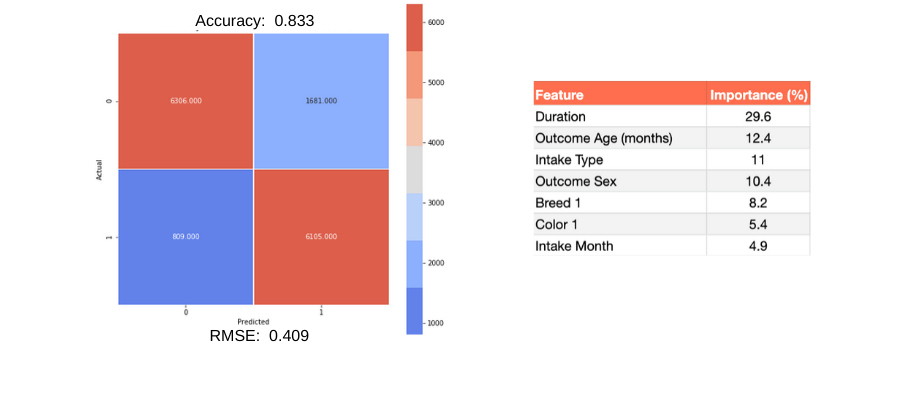
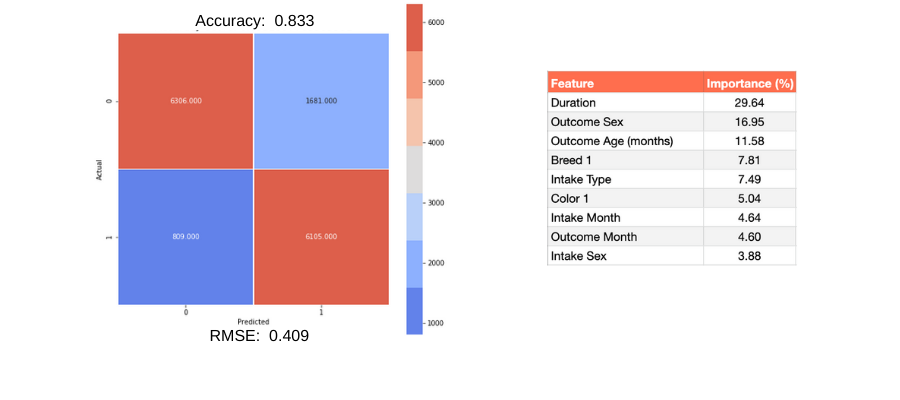
adoption slide revised
map aac logo added

Changed region(s): [[0.5911, 0.18, 0.9022, 0.66]]

diff --git a/App/static/js/map.js b/App/static/js/map.js
@@ -33,8 +33,8 @@ function createFeatures(adoptionData) {
           fillColor: chooseColor(adoptionData[i]['At AAC']),
           color: "#308ddf",
           fillOpacity: 0.7
-        }).bindPopup("<p> Age: " + adoptionData[i].Age + "</p><p> Breed: "+ adoptionData[i]['Breed(unconfirmed)'] + 
-        "</p><p> Sex: "+ adoptionData[i].Found_Sex + " " + adoptionData[i].Gender_x + "</p><p> Color: "+ adoptionData[i].Color_x + "</p>")
+        }).bindPopup("<p><strong> Age: </strong>" + adoptionData[i].Age + "</p><p><strong> Breed: </strong>"+ adoptionData[i]['Breed(unconfirmed)'] + 
+        "</p><p><strong> Sex: </strong>"+ adoptionData[i].Found_Sex + " " + adoptionData[i].Gender_x + "</p><p><strong> Color: </strong>"+ adoptionData[i].Color_x + "</p>")
       );
     }
   }
@@ -55,11 +55,19 @@ function createMap(animalMarkers) {
     accessToken: API_KEY
   });
 
+  //Marker for AAC
+  var aacIcon = L.icon({
+    iconUrl: 'http://www.austintexas.gov/sites/default/files/aac_logo.jpg',
+    iconSize:     [87, 35], // size of the icon
+    iconAnchor:   [43, 17], // point of the icon which will correspond to marker's location
+    popupAnchor:  [-3, -76] // point from which the popup should open relative to the iconAnchor
+});
+  var aac = L.marker([30.251395, -97.690429], {icon: aacIcon})
   // Create our map, giving it the streetmap and animals layers to display on load
   var myMap = L.map("found-map", {
     center: [30.2672, -97.7431],
     zoom: 11,
-    layers: [streetmap, L.layerGroup(animalMarkers)]
+    layers: [streetmap, L.layerGroup(animalMarkers), aac]
   });
 
   //create Legend
